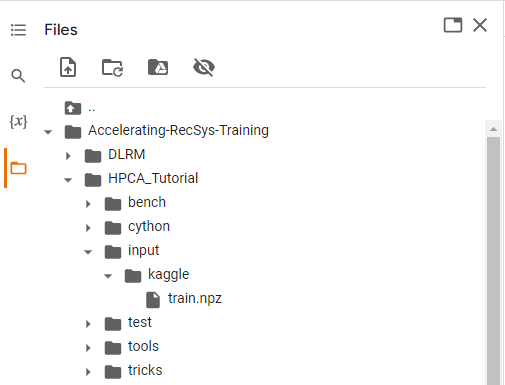
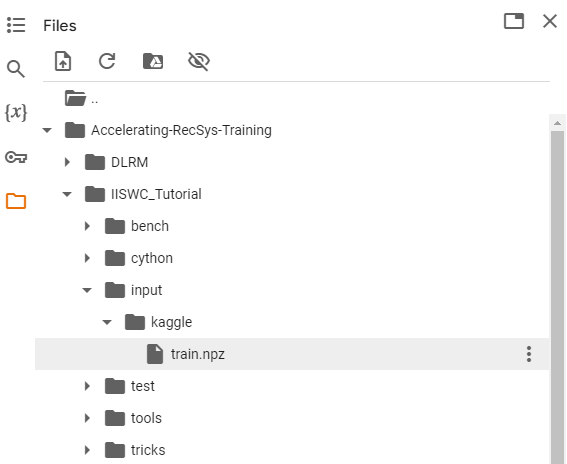
IISWC

diff --git a/_docs/03-github.md b/_docs/03-github.md
@@ -12,10 +12,10 @@ Clone the github repor in your colab using
    !git clone https://github.com/STAR-Laboratory/Accelerating-RecSys-Training.git
 ```
 
-Change directory to `HPCA_Tutorial`
+Change directory to `IISWC_Tutorial`
 
 ```bash
-   cd Accelerating-RecSys-Training/HPCA_Tutorial/
+   cd Accelerating-RecSys-Training/IISWC_Tutorial/
 ```
 
 Create `input/kaggle` directory for storing input files
@@ -42,7 +42,7 @@ Your Files directory will look like this.
   <img src="{{ '/assets/tutorial/directory.png' }}">
 </figure>
 
-Change directory to `HPCA_Tutorial`
+Change directory to `IISWC_Tutorial`
 
 ```bash
    cd ../..

diff --git a/_docs/02-colab.md b/_docs/02-colab.md
@@ -22,7 +22,7 @@ Change the Runtime by `Runtime` --> `Change runtime type`
   <img src="{{ '/assets/tutorial/change_runtime.png' }}">
 </figure>
 
-Select `GPU` as runtime.
+Select `python 3` as Runtime type and `T4 GPU` as Hardware accelerator.
 
 <figure>
   <img src="{{ '/assets/tutorial/GPU.png' }}">
